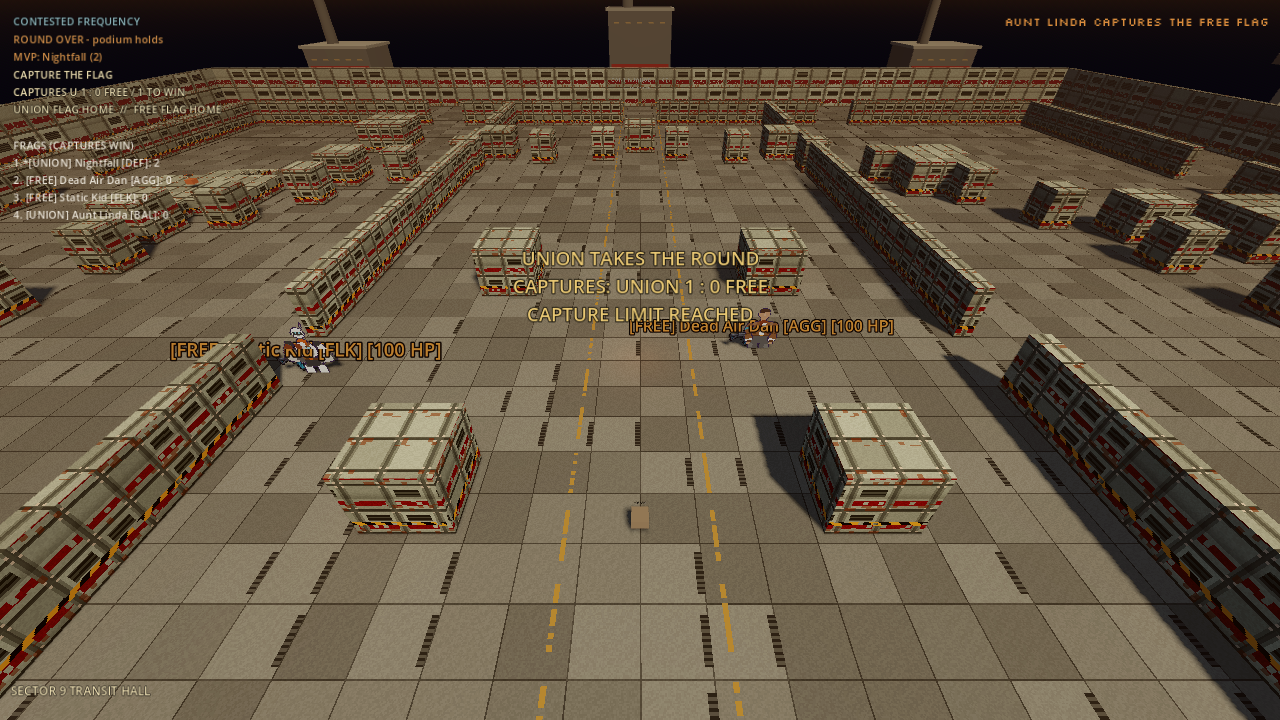
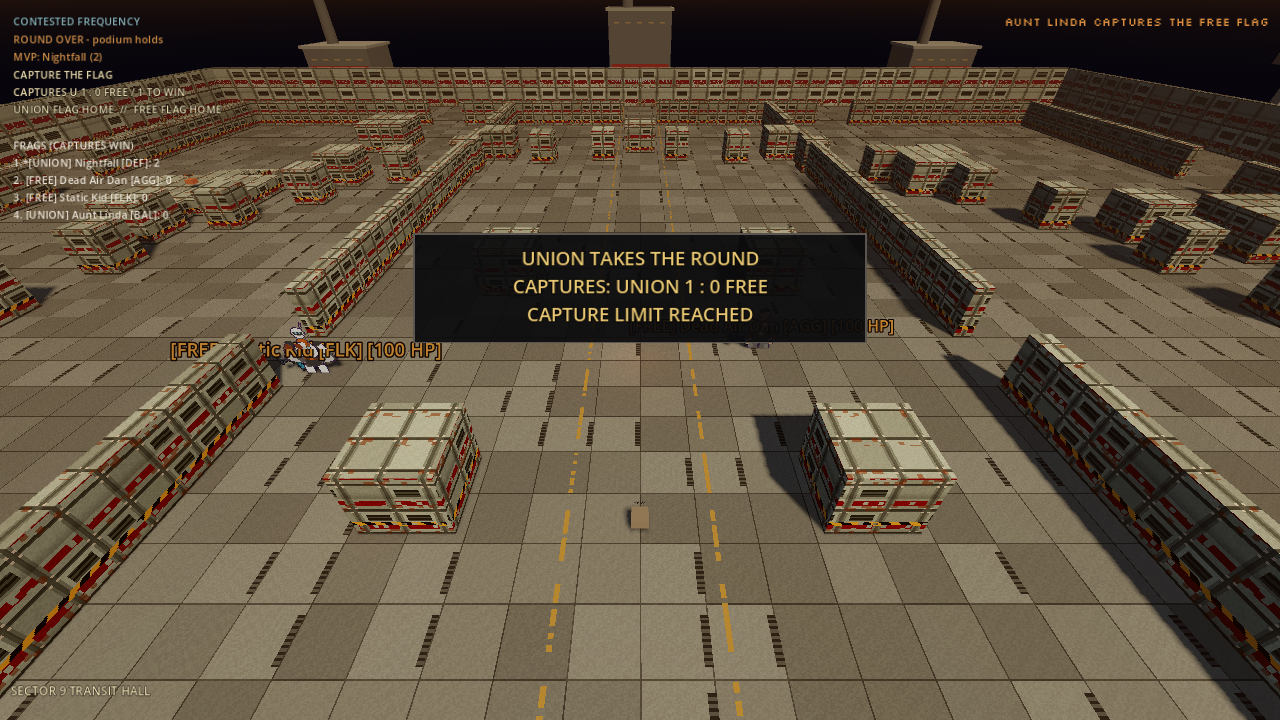
docs: refresh CTF result evidence

Changed region(s): [[0.2812, 0.3056, 0.6875, 0.4889], [0.2188, 0.4889, 0.25, 0.5194]]

diff --git a/docs/plans/capture-the-flag.md b/docs/plans/capture-the-flag.md
@@ -68,4 +68,5 @@ This is a deterministic network and presentation gate. It cannot establish that 
 - Verification after the defender and touch-window change: full Rust workspace tests, formatting, Clippy, release build, cargo deny, the 16-bot release benchmark, and unfiltered workspace line coverage at 93.49 percent passed. The CTF mixed socket smoke completed in 77.2 seconds with eight frags and one capture. FFA, TDM, Rail Only, Licence to Kill, and all six mixed roster rounds through 16 agents passed; this roster run recorded zero spawn deaths. The 120-second rotating-map soak held 20.00 Hz, lifetime tick p99 0.66 ms and RSS 37.8 to 38.5 MiB on this Windows host. The full Godot checker passed with the pinned 4.7.2 binary; its ten-scenario fault-injection self-test also passed. The standard 32-state tour republished 13 stills, and its contact sheet was inspected. These are local measures, not public cloud capacity or human fun evidence.
 - The four-state solo leave-drop tour passed again after the touch-window change. Its [grounded drop](../screenshots/ctf_live_dropped.png) and [automatic return](../screenshots/ctf_live_returned.png) frames were inspected; the published drop still was refreshed from this run. Command: `FRAGR_QA_MANIFEST=res://qa/ctf_leave_drop.json FRAGR_QA_MODE=ctf FRAGR_QA_MAP=4 FRAGR_QA_BOTS=0 FRAGR_QA_SEED=42 FRAGR_PORT=6815 tools/qa_tour.sh .agents/qa/ctf-leave-drop-combat-grace` from Git Bash.
 - The joined-fighter route (`client/qa/ctf_fighter_capture.json`) passed on a real seed 42 server with zero bots and the AMD Radeon 780M renderer. The tour checks the joined player's ID against the Union flag carrier at the [enemy stand](../screenshots/ctf_fighter_carried.png) and again on the home approach. Its [first-person scored result](../screenshots/ctf_fighter_scored.png) shows the Free Coalition taking the round. The ignored capture manifest records `carried,home` at 0:0 in the first two states, then `home,home`, Coalition 1:0 and `Ended` at `[69.99, 0, 2.25]`. Command: `FRAGR_QA_MANIFEST=res://qa/ctf_fighter_capture.json FRAGR_QA_MODE=ctf FRAGR_QA_MAP=4 FRAGR_QA_BOTS=0 FRAGR_QA_CAPTURE_LIMIT=1 FRAGR_QA_SEED=42 FRAGR_PORT=6824 tools/qa_tour.sh .agents/qa/ctf-fighter-backed-result` from Git Bash. The first attempt hit cover on a direct home approach; the second scored, but walked long enough for the next round to reset the snapshot. The passing route uses the clear side lane and stops just inside the 2.5-metre capture radius. Independent visual review found the score difficult to read over the bright home flag, so the CTF result now has a dark backing; the refreshed three-state tour passed and its result still and contact sheet were inspected. The full pinned Godot checker passed after the backing change. This is a manually run scripted fighter proof on the stated host; unsteered human and spectator clarity remain open.
-- Draft PR #267 is stacked on draft #266. The repository workflow currently runs for pull requests targeting `main`, so GitHub does not schedule checks on this stacked PR until its base moves to `main`. The full local gates above are the current verification evidence. No merge, cloud apply or paid API call was made.
+- After the result backing change, the six-state layout tour and both outcome-gated bot tours passed again on the AMD Radeon 780M renderer with clean Godot logs. The published [layout fixture](../screenshots/ctf_result_fixture.png), [live bot result](../screenshots/ctf_live_result.png), and [combat-drop result](../screenshots/ctf_combat_result.png) were refreshed and inspected. The fixture remains an explicit layout check; both bot result images come from server outcomes. Commands used `client/qa/ctf.json` on port 6825, `ctf_live.json` on port 6826 and `ctf_combat_live.json` on port 6827 with the mode, map, bot count, capture limit and seed recorded above. Local captures are under `.agents/qa/ctf-layout-refreshed`, `.agents/qa/ctf-live-backed-result` and `.agents/qa/ctf-combat-backed-result`.
+- Draft PR #267 remains stacked on draft #266. The repository workflow runs for pull requests targeting `main`; its base was temporarily set to `main` to run exact-head CI checks before returning to the stack. The PR checks show the CI result. No merge, cloud apply or paid API call was made.
